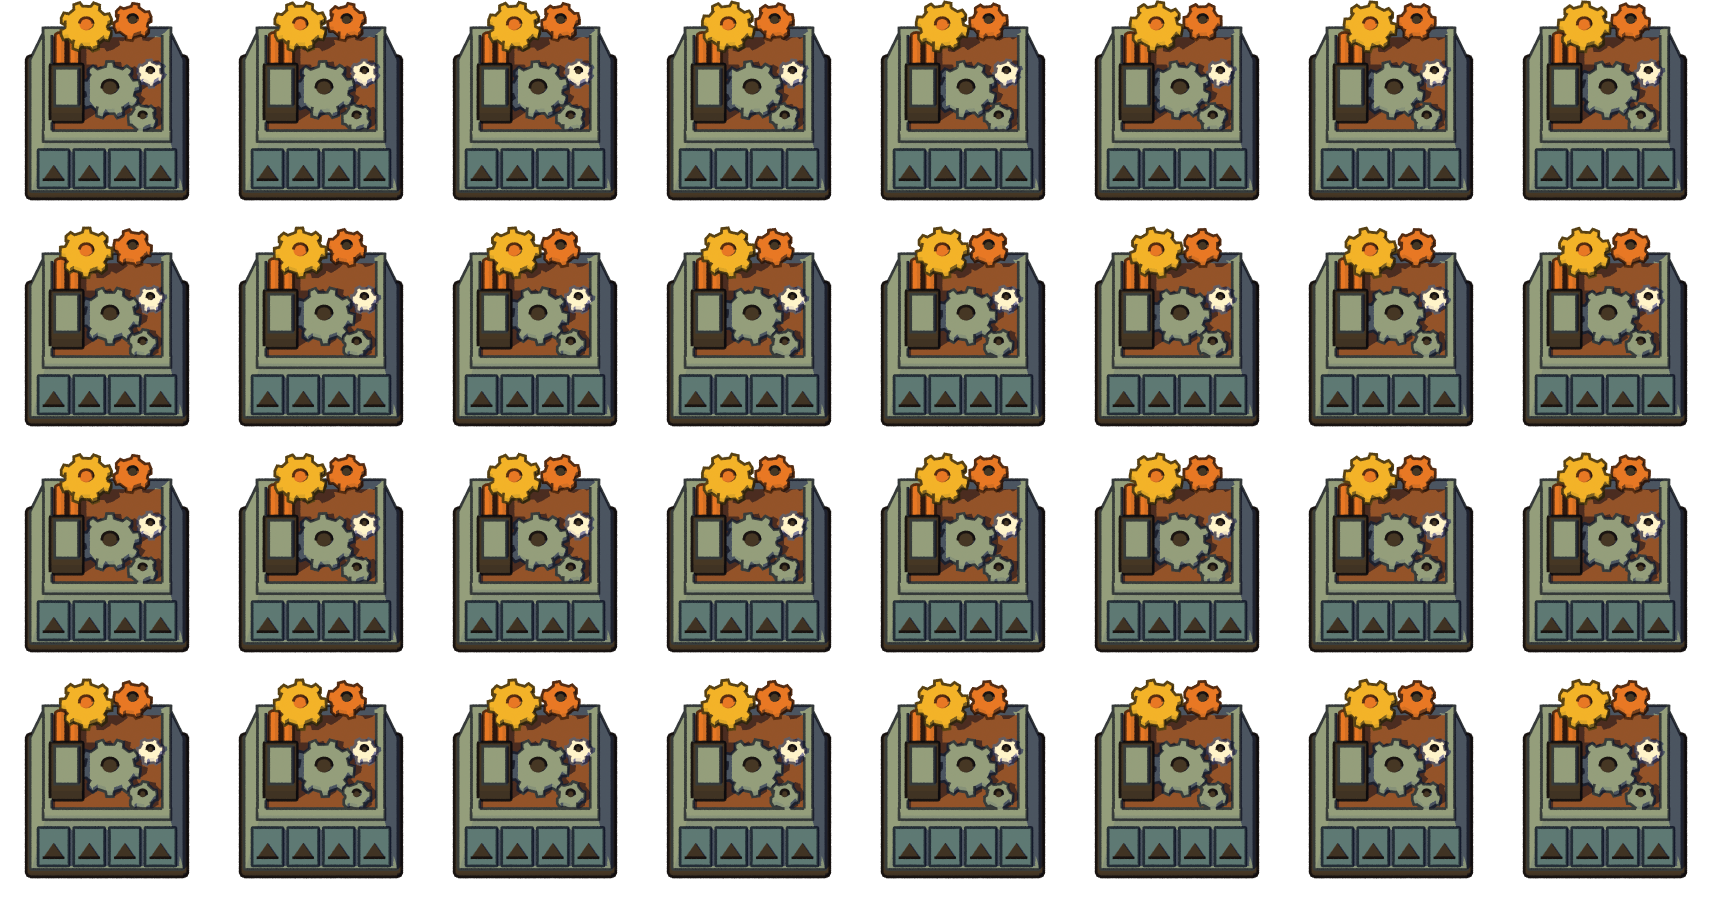
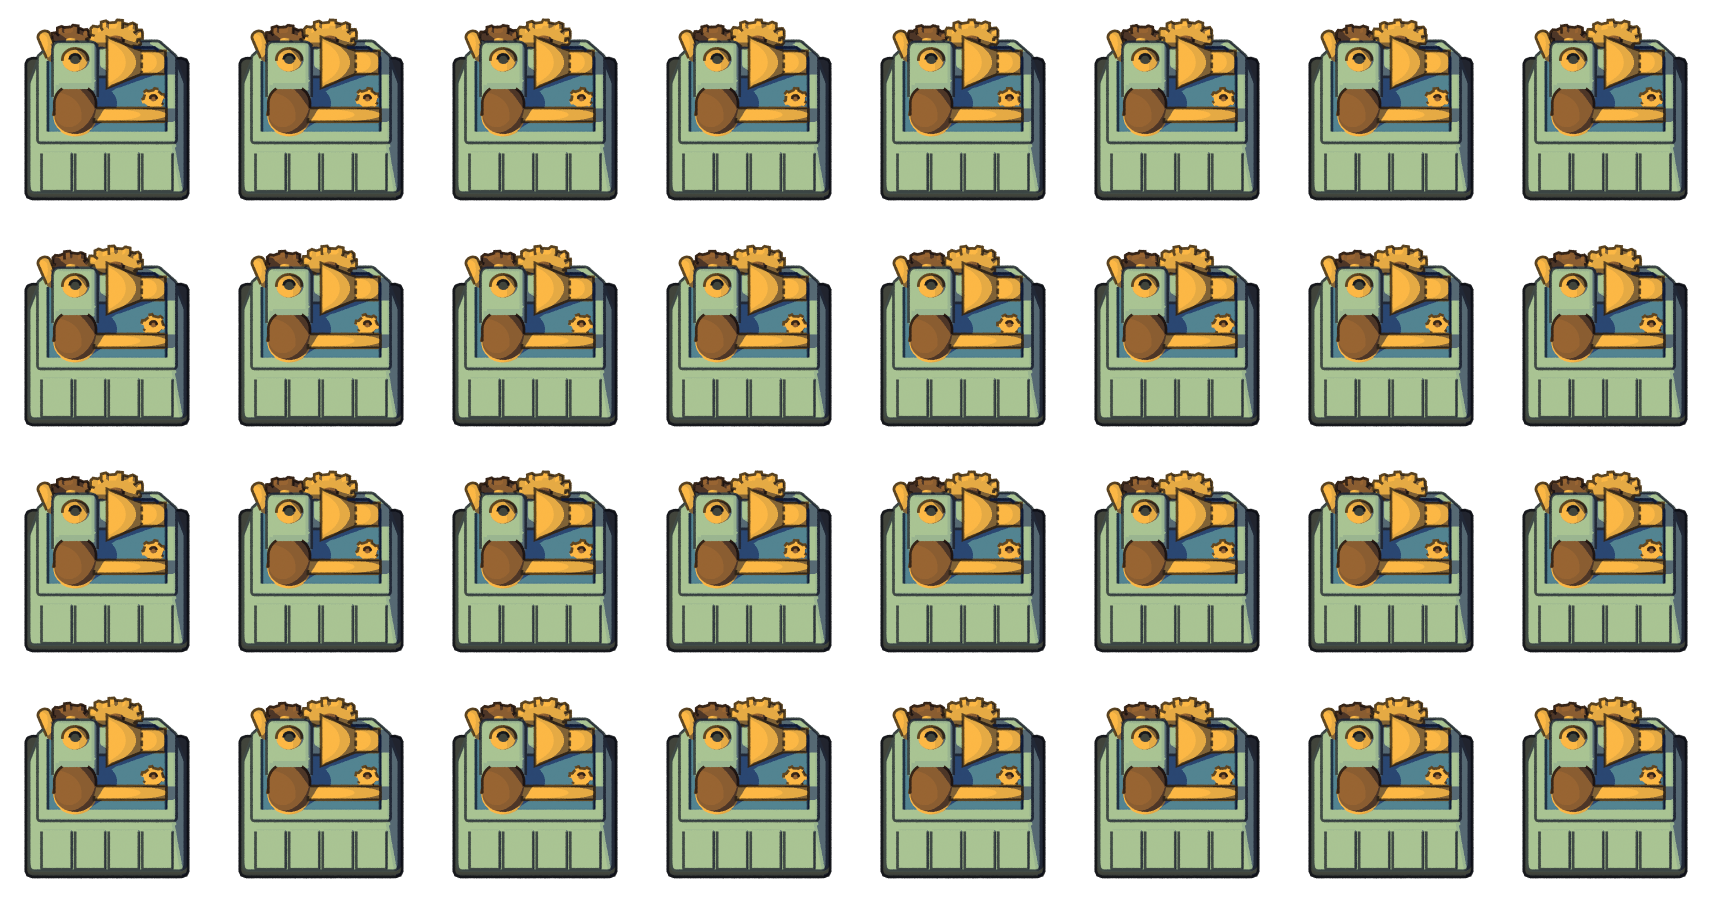
Cel-shading : nouveau modèle de l'assembleur 1, d'après les images cibles
Modèle propre au mod (blender/assembler.py), d'après e-11 et e-15 retenues
par Bastien : corps trapu aux coins arrière coupés, tablier à quatre panneaux,
plateau bleu, moteur, tambour, arbre et entonnoir de laiton, engrenages debout.
Normales lissées sur les pièces rondes (frontière d'ombre nette). Assembleurs
2 et 3 (modèles cartoon) retirés du mod.

diff --git a/celshading/blender/assembler.py b/celshading/blender/assembler.py
@@ -1,0 +1,192 @@
+"""Assembleur 1, modèle propre au mod cel-shading, d'après les images cibles e-11 et e-15
+(celshading/concept/cibles/assembleur-1.png et assembleur-1-b.png).
+
+Usage : python celshading/blender/assembler.py <dossier_sortie> tout
+          planche animée (32 images, 8 x 4, comme l'original), ombre et icône, dans l'arborescence de graphics/overrides
+        python celshading/blender/assembler.py <dossier_sortie> [phase 0..1] [facteur de taille]
+          une image <sortie>/assembleur.png calée sur le cadre de l'original (214 x 226), `facteur` fois plus grande
+
+Peu de grosses formes, arrondies : corps trapu vert sauge sur un socle sombre, grand tablier avant incliné en quatre
+panneaux, plateau bleu entouré d'un rebord ; mécanisme : moteur vert à « œil » jaune, tambour cuivré, long arbre de
+laiton, entonnoir de laiton, deux engrenages debout qui dépassent du bord arrière, cheminée de laiton à gauche.
+`build(phase)` est paramétré pour l'animation (engrenages), boucle complète sur phase 0 -> 1.
+"""
+import math, os, sys
+
+sys.path.insert(0, os.path.dirname(os.path.abspath(__file__)))
+import bpy
+from lib import (S, reset, couleur, box, cyl, gear, render_scene, render_shadow, crop_centered, entity_path,
+                 save_icon, sheet)
+
+NAME = "assembling-machine-1"
+FRAME = (214, 226)
+BBOX = (25, 2, 188, 199)       # pixels opaques de l'image 0 de l'original : largeur et bas servent au calage
+N_FRAMES = 32
+COLUMNS = 8
+SHADOW_CELL, SHADOW_OFFSET = (190, 165), (17, 6)   # cadre de l'ombre originale et position de son centre (px)
+SUN_SHEAR = (0.3, 0.02)          # ombre au sol : décalage par unité de hauteur (droite, vers le bas)
+CANVAS = 400
+
+# couleurs mesurées sur les images cibles (ton « éclairé »)
+VERT, BLEU = "#9ab590", "#4b7a8e"
+LAITON, CUIVRE, SOMBRE = "#e5aa44", "#8a5d31", "#3b3f3a"
+
+
+def lisse(o):
+    """Normales lissées : la frontière d'ombre suit la courbe (cylindres, cônes)."""
+    for poly in o.data.polygons:
+        poly.use_smooth = True
+    return o
+
+
+def arrondi(o, largeur, segments=3):
+    mod = o.modifiers.new("Bevel", "BEVEL")
+    mod.width = largeur
+    mod.segments = segments
+    return o
+
+
+def engrenage_debout(center, r, dents, angle, m, moyeu):
+    """Engrenage dressé face à la caméra (plan x-z), qui tourne dans son plan."""
+    o = gear((0, 0, 0), r, 0.12, dents, 0.0, m)
+    o.location = center
+    o.rotation_mode = "ZYX"
+    o.rotation_euler = (math.radians(90), 0, math.radians(angle))
+    cyl((center[0], center[1] - 0.08, center[2]), r * 0.35, 0.06, moyeu, verts=24, rot=(90, 0, 0))
+    return o
+
+
+def prisme(bas, haut, m):
+    """Volume entre deux polygones horizontaux de même nombre de sommets (même ordre)."""
+    import bmesh
+    bm = bmesh.new()
+    b = [bm.verts.new(v) for v in bas]
+    h = [bm.verts.new(v) for v in haut]
+    n = len(b)
+    bm.faces.new(b[::-1])
+    bm.faces.new(h)
+    for k in range(n):
+        bm.faces.new((b[k], b[(k + 1) % n], h[(k + 1) % n], h[k]))
+    bmesh.ops.recalc_face_normals(bm, faces=bm.faces[:])
+    me = bpy.data.meshes.new("prisme")
+    bm.to_mesh(me)
+    bm.free()
+    o = bpy.data.objects.new("prisme", me)
+    bpy.context.scene.collection.objects.link(o)
+    me.materials.append(m)
+    return o
+
+
+def coins_coupes(x0, y0, x1, y1, z, c):
+    """Rectangle aux deux coins arrière coupés (de `c`), dans l'ordre : avant gauche, avant droit, puis l'arrière."""
+    return [(x0, y0, z), (x1, y0, z), (x1, y1 - c, z), (x1 - c, y1, z), (x0 + c, y1, z), (x0, y1 - c, z)]
+
+
+def build(phase=0.0):
+    reset()
+    vert, bleu = couleur("vert", VERT), couleur("bleu", BLEU)
+    laiton, cuivre, sombre = couleur("laiton", LAITON), couleur("cuivre", CUIVRE), couleur("sombre", SOMBRE)
+
+    # --- socle et corps ----------------------------------------------------------------------------------------
+    box((0, 0, 0.05), (2.8, 2.75, 0.1), sombre, 0.04)
+    zt = 1.0
+    arrondi(prisme(coins_coupes(-1.36, -1.36, 1.36, 1.3, 0.1, 0.4), coins_coupes(-1.2, -0.85, 1.2, 1.15, zt, 0.3),
+                   vert), 0.09)
+
+    # tablier avant : quatre panneaux plus clairs posés sur la pente
+    pente = math.degrees(math.atan((1.36 - 0.85) / (zt - 0.1)))
+    for x in (-0.87, -0.29, 0.29, 0.87):
+        arrondi(box((x, -1.12, 0.52), (0.52, 0.04, 0.78), vert, rot_x=-pente), 0.03, 2)
+
+    # --- dessus : dalle aux coins coupés (rebord), plateau bleu posé dessus --------------------------------------
+    arrondi(prisme(coins_coupes(-1.2, -0.85, 1.2, 1.15, zt - 0.01, 0.3), coins_coupes(-1.2, -0.85, 1.2, 1.15, zt + 0.12, 0.3),
+                   vert), 0.05)
+    prisme(coins_coupes(-1.02, -0.68, 1.02, 0.98, zt + 0.12, 0.2), coins_coupes(-1.02, -0.68, 1.02, 0.98, zt + 0.15, 0.2),
+           bleu)
+
+    # --- mécanisme : peu de grosses pièces, qui couvrent l'essentiel du plateau ---------------------------------
+    # moteur vert arrondi, haut, « œil » jaune dessus
+    arrondi(box((-0.55, 0.3, zt + 0.45), (0.78, 0.85, 0.85), vert), 0.14)
+    lisse(cyl((-0.55, 0.3, zt + 0.89), 0.22, 0.05, laiton, verts=40))
+    cyl((-0.55, 0.3, zt + 0.92), 0.09, 0.03, sombre, verts=24)
+    # tambour cuivré devant le moteur, bague de laiton
+    lisse(cyl((-0.55, -0.4, zt + 0.33), 0.36, 0.6, cuivre, verts=48))
+    lisse(cyl((-0.55, -0.4, zt + 0.1), 0.375, 0.16, laiton, verts=48))
+    # long arbre de laiton vers la droite
+    lisse(cyl((0.4, -0.45, zt + 0.3), 0.12, 1.25, laiton, verts=32, rot=(0, 90, 0)))
+    # entonnoir de laiton couché, pointé vers la droite, et son embout
+    bpy.ops.mesh.primitive_cone_add(vertices=48, radius1=0.44, radius2=0.2, depth=0.6,
+                                    location=(0.3, 0.45, zt + 0.55), rotation=(0, math.radians(90), 0))
+    o = bpy.context.object
+    o.data.materials.append(laiton)
+    lisse(o)
+    lisse(cyl((0.8, 0.45, zt + 0.55), 0.2, 0.42, laiton, verts=40, rot=(0, 90, 0)))
+    arrondi(box((-0.07, 0.45, zt + 0.55), (0.3, 0.38, 0.38), vert), 0.08)     # raccord moteur-entonnoir
+    # deux engrenages debout qui dépassent du bord arrière ; ils s'engrènent (tournent en sens inverse)
+    a = phase * 2 * 360 / 10
+    engrenage_debout((0.15, 1.0, zt + 0.5), 0.38, 10, a, laiton, cuivre)
+    engrenage_debout((-0.62, 1.02, zt + 0.42), 0.27, 7, -a * 10 / 7 + 12, cuivre, laiton)
+    # petit engrenage couché sur le plateau, à droite
+    gear((0.8, -0.05, zt + 0.12), 0.17, 0.1, 6, phase * 2 * 360 / 6, laiton, cuivre)
+    # cheminée de laiton à gauche, un peu penchée
+    lisse(cyl((-1.0, 0.8, zt + 0.45), 0.11, 0.8, laiton, verts=32, rot=(0, -12, 0)))
+
+def measure(path):
+    import cv2, numpy as np
+    im = cv2.imread(path, cv2.IMREAD_UNCHANGED)
+    ys, xs = np.where(im[:, :, 3] > 200)
+    return xs.min(), ys.min(), xs.max(), ys.max()
+
+
+def fit_camera(out, phase=0.0):
+    """Échelle et décalage de caméra qui donnent la même largeur et le même bas que l'original."""
+    tw = BBOX[2] - BBOX[0] + 1
+    scale, shift = 3.9, 0.0
+    path = os.path.join(out, "_fit.png")
+    for _ in range(4):
+        build(phase)
+        render_scene(path, size=FRAME, scale=scale, pitch_deg=S.PITCH_BUILDING_DEG, shift_y=shift)
+        x0, y0, x1, y1 = measure(path)
+        scale *= (x1 - x0 + 1) / tw
+        shift -= (y1 - BBOX[3]) / max(FRAME)
+    os.remove(path)
+    return scale, shift
+
+
+def render_phase(path, phase, scale, shift, factor=1):
+    build(phase)
+    return render_scene(path, size=(FRAME[0] * factor, FRAME[1] * factor), scale=scale,
+                        pitch_deg=S.PITCH_BUILDING_DEG, shift_y=shift)
+
+
+def produire(out):
+    """Planche animée, ombre (une image, recopiée : seuls les engrenages bougent) et icône, au format du jeu."""
+    import cv2
+    scale, shift = fit_camera(out, 0.0)
+    tmp = os.path.join(out, "_image.png")
+    frames = []
+    for i in range(N_FRAMES):
+        render_phase(tmp, i / N_FRAMES, scale, shift)
+        frames.append(cv2.imread(tmp, cv2.IMREAD_UNCHANGED))
+    os.remove(tmp)
+    cv2.imwrite(entity_path(out, NAME), sheet(frames, COLUMNS))
+    fh = max(FRAME)
+    big = render_shadow(lambda: build(0.0), os.path.join(out, "_ombre.png"), (CANVAS, CANVAS), scale * CANVAS / fh,
+                        SUN_SHEAR, shift_y=shift * fh / CANVAS)
+    cell = crop_centered(big, SHADOW_CELL, SHADOW_OFFSET)
+    cv2.imwrite(entity_path(out, NAME, f"{NAME}-shadow.png"), sheet([cell] * N_FRAMES, COLUMNS))
+    print("icône :", save_icon(out, NAME, lambda: build(0.0), 60, 0.5))
+
+
+if __name__ == "__main__":
+    out = sys.argv[1] if len(sys.argv) > 1 else "sortie"
+    if len(sys.argv) > 2 and sys.argv[2] == "tout":
+        os.makedirs(out, exist_ok=True)
+        produire(out)
+        sys.exit()
+    phase = float(sys.argv[2]) if len(sys.argv) > 2 else 0.0
+    factor = int(sys.argv[3]) if len(sys.argv) > 3 else 1
+    os.makedirs(out, exist_ok=True)
+    scale, shift = fit_camera(out, phase)
+    path = render_phase(os.path.join(out, "assembleur.png"), phase, scale, shift, factor)
+    print("OK", path, "échelle", round(scale, 3), "décalage", round(shift, 4))

diff --git a/celshading/blender/lib.py b/celshading/blender/lib.py
@@ -60,9 +60,10 @@ def line_color(rgb):
     return tuple(_to_linear(min(1.0, c)) for c in (r, g, min(1.0, b * C.OUTLINE_BLUE)))
 
 
-def mat(name, rgb):
-    """Aplat de la couleur avivée, en émission ; le ton (ombre, éclairé, clair) est posé par render_scene."""
-    base = vivid(rgb)
+def mat(name, rgb, avive=True):
+    """Aplat de la couleur (RGB linéaire), en émission ; le ton (ombre, éclairé, clair) est posé par render_scene.
+    `avive` : couleur de la palette cartoon, avivée (modèles du mod cartoon) ; False : couleur prise telle quelle."""
+    base = vivid(rgb) if avive else tuple(rgb)
     m = bpy.data.materials.new(name)
     m["cel"] = 1
     m.line_color = (*line_color(base), 1)
@@ -74,6 +75,11 @@ def mat(name, rgb):
     out = nt.nodes.new("ShaderNodeOutputMaterial")
     nt.links.new(em.outputs[0], out.inputs[0])
     return m
+
+
+def couleur(name, hex_):
+    """Matière d'une couleur #rrggbb (sRGB) prise telle quelle : ton « éclairé » de l'objet (modèles du mod)."""
+    return mat(name, S._lin(hex_), avive=False)
 
 
 def _flat(name, shader, value):

diff --git a/celshading/lots.py b/celshading/lots.py
@@ -4,10 +4,6 @@ Même format que cartoon/lots.py : chaque commande est un script (chemin relatif
 arguments ; build.py ajoute le dossier de sortie en premier argument.
 """
 
-# Modèles du mod cartoon rendus en cel-shading (blender/run_cartoon.py), en attendant des modèles propres au mod.
 LOTS = {
-    "assembleurs": [                                     # planches animées, ombres, icônes
-        *[("blender/run_cartoon.py", ["animate.py", str(tier)]) for tier in (1, 2, 3)],
-        *[("blender/run_cartoon.py", ["assembler_extras.py", str(tier)]) for tier in (1, 2, 3)],
-    ],
+    "assembleurs": [("blender/assembler.py", ["tout"])],   # assembleur 1 : planche animée, ombre, icône
 }

diff --git a/celshading/concept/README.md b/celshading/concept/README.md
@@ -8,7 +8,8 @@ restent dans `.cache/concept/<objet>/` (non versionné).
 
 ## Recette (11 octobre, assembleur 1 : image `e-11` jugée réussie par Bastien, cible provisoire)
 
-Vérifiée avec `tools/concept/concept.py --recette` : variantes `e-13` à `e-16`, cohérentes avec `e-11`.
+Vérifiée avec `tools/concept/concept.py --recette` : variantes `e-13` à `e-16`, cohérentes avec `e-11`. Bastien a
+retenu **e-11 et e-15** (`cibles/assembleur-1.png`, `cibles/assembleur-1-b.png`) : modèle `blender/assembler.py`.
 
 DreamShaper XL Turbo (modèle par défaut), 768 x 768, 8 étapes, cfg 3,5, ControlNet profondeur 0,4 et contours
 0,25, **IP-Adapter « style transfer » 0,6 sur trois de nos rendus cel-shading** (assembleurs 1 et 2, formes
@@ -21,10 +22,11 @@ G=.cache/concept/assembleur-1
 # 1. guides tirés du sprite original (environnement de ComfyUI, pour Depth Anything V2)
 ~/workspace/comfyui/.venv/bin/python -I tools/concept/prepare.py $G/guides \
     base/graphics/entity/assembling-machine-1/assembling-machine-1.png 214 226 --toile 1024 1024
-# 2. références de style : nos rendus cel-shading (moteur du mod)
+# 2. références de style : nos rendus cel-shading (moteur du mod). Pour l'assembleur 1, c'étaient les modèles
+#    cartoon rendus en cel-shading (assembleurs 1 et 2, retirés depuis) et les formes d'essai (blender/essai.py) ;
+#    pour les objets suivants : les sprites déjà refaits du mod, par exemple
 .venv/bin/python tools/concept/styles.py $G/guides \
     celshading/mod/graphics/overrides/base/entity/assembling-machine-1/assembling-machine-1.png:214:226 \
-    celshading/mod/graphics/overrides/base/entity/assembling-machine-2/assembling-machine-2.png:214:226 \
     .cache/celshading/essai/essai.png
 # 3. génération, une image par graine
 .venv/bin/python -I tools/concept/concept.py $G/guides $G/gen 11,12,13 --tag e --recette celshading/concept/recette.json \

diff --git a/docs/celshading/plan.md b/docs/celshading/plan.md
@@ -138,7 +138,8 @@ prototype, production, contrôle, vérification en jeu, commit.
 ### Étape 1 : charte visuelle, sur trois objets vus en jeu
 Trois objets qui couvrent les trois familles de rendu, posés ensemble dans le banc d'essai, chacun par la méthode
 de la section 3.3 (image cible, puis modèle) :
-- [ ] **Assembleur 1** (machine, surfaces dures) : nouveau modèle.
+- [ ] **Assembleur 1** (machine, surfaces dures) : cibles e-11 et e-15 retenues ; nouveau modèle
+      `blender/assembler.py` (planche, ombre, icône), à voir en jeu. Assembleurs 2 et 3 (modèles cartoon) retirés.
 - [ ] **Arbre** (organique) : boules de feuillage.
 - [ ] **Four en pierre avec sa fumée** (effets) : la volute de fumée.
 - [ ] Plus **l'herbe** comme fond.
